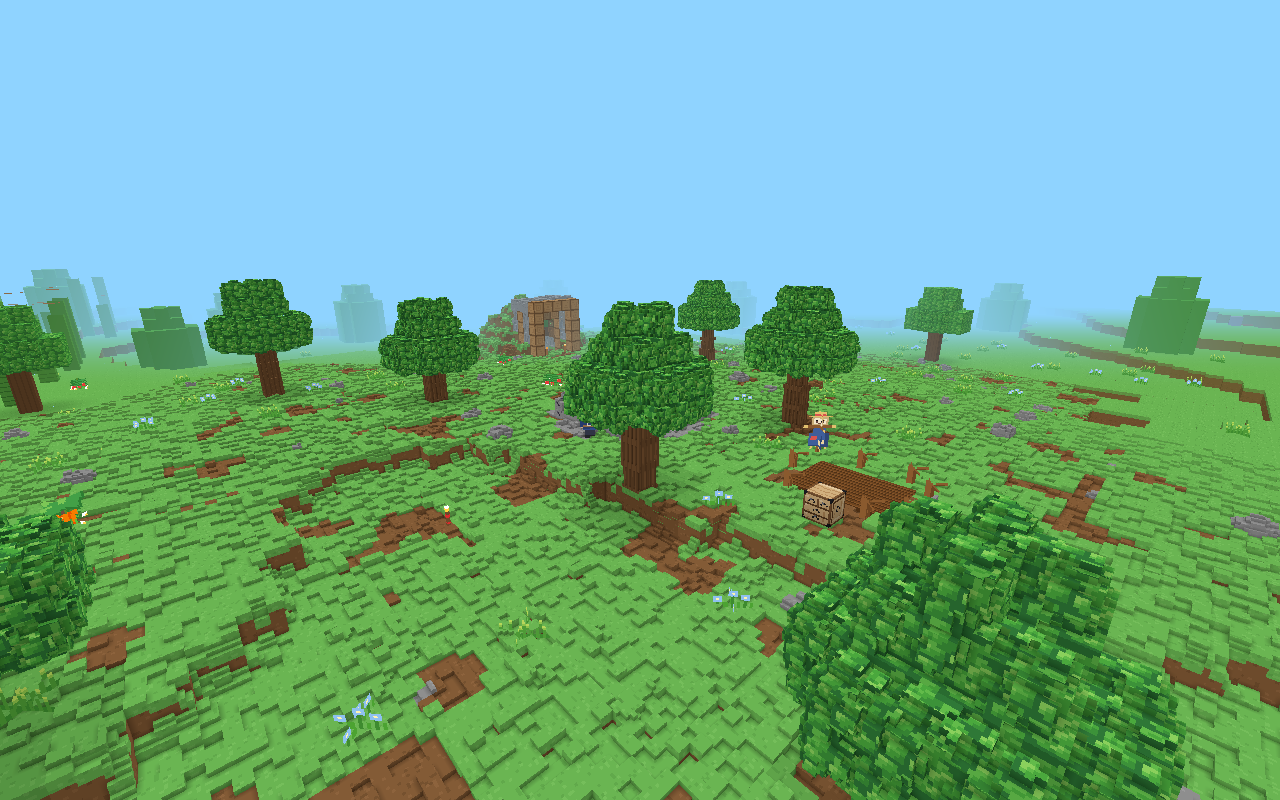
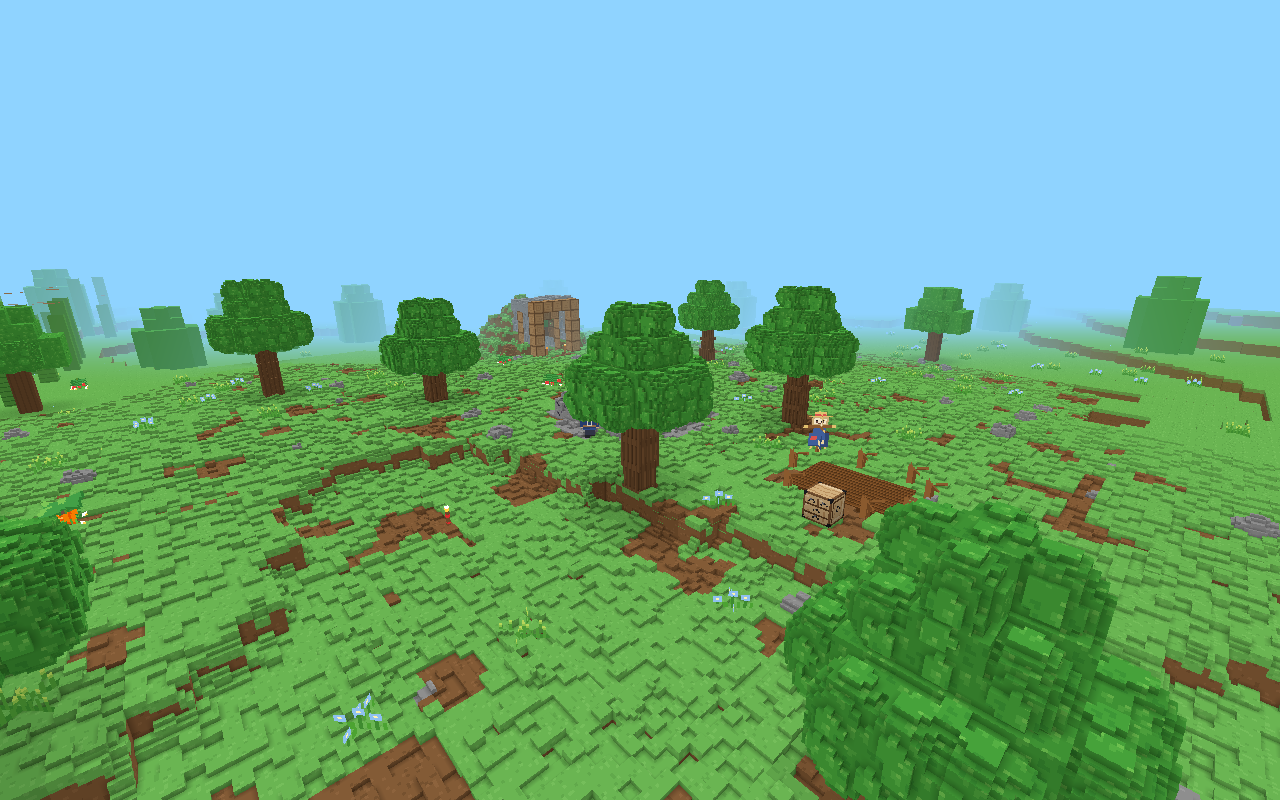
はっぱ「もこもこ」2 回目: 細かい ぶつぶつを やめ、大きな こぶと おだやかな 絵に
オーナー「気持ち悪い 見た目」→ 小さな こぶ・こい すき間の 色を やめた。
へり・かどを 大きく まるめ、面に 大きな こぶを 1〜2 こ。絵は 地の 色に 光と かげの 葉を まばらに。

Claude-Session: https://claude.ai/code/session_013nE4R1yYa5Tzza9z6QScoi

diff --git a/src/world/render/looks/leafPuff.ts b/src/world/render/looks/leafPuff.ts
@@ -3,84 +3,91 @@ import { LOOK_N } from './types';
 
 /**
  * はっぱの「もこもこ」の 形（?leaf=moko の 試し）。
- * 空気に 出ている 面だけを 2 マス 引っこめて、その上に まるい こぶ（球）を のせる。
+ * 空気に 出ている 面を 少し 引っこめ、面が 出会う へり・かどを 大きく まるめた 上に、大きな まるい こぶを 1〜2 こ のせる。
  * となりが はっぱ・幹の 面は いっぱいまで つめる（木の 中に 面を 残さない。つぎ目に すきまを 作らない）。
- * 1 マスだけの 穴は 作らない（遠くで ちらつく）。
+ * 細かい でこぼこ・穴は 作らない（ぶつぶつに 見えて 気持ち悪い。オーナー 2026-11-10）。こぶは ブロックの 半分くらいの 大きさ。
  */
 const N = LOOK_N;
 
 /** 形の 数（単位は 小ブロック。1 ブロック = 9） */
 export const LEAF_PUFF = {
   /** 空気に 出た 面を 引っこめる 深さ */
-  inset: 2,
-  /** 1 つの 面に のせる こぶの 数（少ない・多い） */
-  perFace: [2, 3],
+  inset: 1.5,
+  /** へり・かどの まるみの 半径 */
+  corner: 4,
   /** こぶの 半径（小さい・大きい） */
-  radius: [2.6, 3.5],
+  radius: [3.6, 4.6],
+  /** まつ: こぶ・まるみの 上下を この 割合に つぶす（平たい 段） */
+  padSquash: 0.6,
 } as const;
 
 export type LeafPuffStyle = 'round' | 'pad';
 
+/** 1 軸の「しん」から はみ出た 長さ（まるみの 半径で 割った 数）。空気に 出ていない 側は 0 */
+function over(p: number, openLo: number, openHi: number, r: number): number {
+  const c = p + 0.5;
+  const d = LEAF_PUFF.inset;
+  if (openLo && c < d + r) return (d + r - c) / r;
+  if (openHi && c > N - d - r) return (c - (N - d - r)) / r;
+  return 0;
+}
+
 /** open = 空気に 出ている 面（上 1, 下 2, +x 4, -x 8, +z 16, -z 32）。色番号 color を out に 書く */
 export function fillLeafPuff(h: number, open: number, out: Uint8Array, color: number, style: LeafPuffStyle): void {
-  const d = LEAF_PUFF.inset;
-  const lo = [open & 8 ? d : 0, open & 2 ? d : 0, open & 32 ? d : 0];
-  const hi = [open & 4 ? N - 1 - d : N - 1, open & 1 ? N - 1 - d : N - 1, open & 16 ? N - 1 - d : N - 1];
+  const r = LEAF_PUFF.corner;
+  const sq = style === 'pad' ? LEAF_PUFF.padSquash : 1;
   let i = 0;
   for (let y = 0; y < N; y++) {
+    const qy = over(y, open & 2, open & 1, r * sq);
     for (let z = 0; z < N; z++) {
+      const qz = over(z, open & 32, open & 16, r);
       for (let x = 0; x < N; x++, i++) {
-        out[i] = x >= lo[0]! && x <= hi[0]! && y >= lo[1]! && y <= hi[1]! && z >= lo[2]! && z <= hi[2]! ? color : 0;
+        const qx = over(x, open & 8, open & 4, r);
+        out[i] = qx * qx + qy * qy + qz * qz <= 1 ? color : 0;
       }
     }
   }
   if (open === 0) return;
-  // 面ごとに こぶを のせる。こぶは 面に ちょうど さわる 高さ（ブロックの 外へは 出ない）
+  // 面ごとに 大きな こぶ。こぶは 面に ちょうど さわる（ブロックの 外へは 出ない）
   for (let f = 0; f < 6; f++) {
     if (!(open & (1 << f))) continue;
     const axis = f < 2 ? 1 : f < 4 ? 0 : 2;
     const plus = f % 2 === 0;
-    const r0 = mix(h, 100 + f);
-    const n = LEAF_PUFF.perFace[0] + (r0 % (LEAF_PUFF.perFace[1] - LEAF_PUFF.perFace[0] + 1));
+    const n = 1 + (mix(h, 100 + f) % 2);
     for (let k = 0; k < n; k++) {
       const r1 = mix(h, 200 + f * 8 + k);
       const rad = LEAF_PUFF.radius[0] + ((r1 & 255) / 255) * (LEAF_PUFF.radius[1] - LEAF_PUFF.radius[0]);
+      const squash = axis === 1 ? 1 : sq;
       const c = [0, 0, 0];
       c[axis] = plus ? N - rad : rad;
-      // 面の 中の 位置: k ごとに 面の 半分ずつへ ちらす（かたまらない）
       const ua = (axis + 1) % 3;
       const va = (axis + 2) % 3;
-      const half = k % 2 === 0 ? 0 : 1;
-      c[ua] = spot(((r1 >>> 8) & 255) / 255, half, open, ua, rad);
-      c[va] = spot(((r1 >>> 16) & 255) / 255, (half + (k >> 1)) % 2, open, va, rad);
-      stamp(out, c[0]!, c[1]!, c[2]!, rad, style === 'pad' && axis !== 1 ? 0.62 : 1, color);
+      // 2 こ のせる ときは 面の 半分ずつへ（かさならない）
+      const half = n === 1 ? -1 : k;
+      c[ua] = spot(((r1 >>> 8) & 255) / 255, half, open, ua, rad * (ua === 1 ? squash : 1));
+      c[va] = spot(((r1 >>> 16) & 255) / 255, half < 0 ? -1 : 1 - half, open, va, rad * (va === 1 ? squash : 1));
+      stamp(out, c[0]!, c[1]!, c[2]!, rad, squash, color);
     }
   }
 }
 
-/** 面の 中の 1 軸の 位置。その 軸の はしが 空気なら 球が はみ出ない 所まで、はっぱに つながる はしなら はしまで */
+/** 面の 中の 1 軸の 位置。その 軸の はしが 空気なら こぶが はみ出ない 所まで、はっぱに つながる はしなら はしまで。half: -1 全体, 0 手前半分, 1 奥半分 */
 function spot(t: number, half: number, open: number, axis: number, rad: number): number {
   const minusBit = axis === 0 ? 8 : axis === 1 ? 2 : 32;
   const plusBit = axis === 0 ? 4 : axis === 1 ? 1 : 16;
-  const a = open & minusBit ? rad : 0.5;
-  const b = open & plusBit ? N - rad : N - 0.5;
+  const a = open & minusBit ? Math.min(rad, N / 2) : 1;
+  const b = open & plusBit ? Math.max(N - rad, N / 2) : N - 1;
   const mid = (a + b) / 2;
+  if (half < 0) return a + (b - a) * t;
   return half === 0 ? a + (mid - a) * t : mid + (b - mid) * t;
 }
 
 function stamp(out: Uint8Array, cx: number, cy: number, cz: number, rad: number, squashY: number, color: number): void {
-  const ry = rad * squashY;
-  const y0 = Math.max(0, Math.floor(cy - ry));
-  const y1 = Math.min(N - 1, Math.ceil(cy + ry));
-  const z0 = Math.max(0, Math.floor(cz - rad));
-  const z1 = Math.min(N - 1, Math.ceil(cz + rad));
-  const x0 = Math.max(0, Math.floor(cx - rad));
-  const x1 = Math.min(N - 1, Math.ceil(cx + rad));
-  for (let y = y0; y <= y1; y++) {
+  for (let y = 0; y < N; y++) {
     const dy = (y + 0.5 - cy) / squashY;
-    for (let z = z0; z <= z1; z++) {
+    for (let z = 0; z < N; z++) {
       const dz = z + 0.5 - cz;
-      for (let x = x0; x <= x1; x++) {
+      for (let x = 0; x < N; x++) {
         const dx = x + 0.5 - cx;
         if (dx * dx + dy * dy + dz * dz <= rad * rad) out[(y * N + z) * N + x] = color;
       }

diff --git a/src/world/render/leafBambooArt.ts b/src/world/render/leafBambooArt.ts
@@ -200,72 +200,72 @@ const BAMBOO_INK: Record<string, Rgba> = {
 };
 
 /**
- * もこもこ（?leaf=moko）の 絵。小さな 葉の かたまりを、左上からの 光で 5 色に ぬる（1 すき間の かげ → 5 光の あたる 先）。
- * 穴は あけない（形は 小ブロックの こぶで 作る）。上下左右に つながる。
+ * もこもこ（?leaf=moko）の 絵。地の 色（3）に、光の 葉（4・先だけ 5）と かげの 葉（2）を まばらに 置く。
+ * 色の 差は 小さく（細かい ぶつぶつは 気持ち悪い。オーナー 2026-11-10）。穴は あけない。上下左右に つながる。
  */
 const MOKO_LEAF = [
-  '4411143321111111',
-  '4431443441111114',
-  '3321434332244434',
-  '3221323322244333',
-  '1111544222143321',
-  '1115454431554344',
-  '3114343321543343',
-  '5431333221433235',
-  '3332111111132554',
-  '3321554311111543',
-  '2111443314443433',
-  '1114433244334132',
-  '3314322213444354',
-  '3213222111443543',
-  '2211144431133233',
-  '1111144331111111',
+  '3333333344333433',
+  '3333333343333332',
+  '2345333333332332',
+  '3344335334532233',
+  '3334344334433333',
+  '3333343333432333',
+  '3333333333332233',
+  '3333333333333333',
+  '5333333354433334',
+  '4333333334334534',
+  '4332233333334433',
+  '3333233453333433',
+  '3223333443233333',
+  '3323233343223333',
+  '3333223333333333',
+  '3333333335335443',
 ];
 
-/** もみじ。とがった 葉が かさなる */
+/** もみじ。小さな 十字の 葉 */
 const MOKO_MOMIJI = [
-  '2441333244114333',
-  '4433432443311332',
-  '4333434433211134',
-  '3331332332111141',
-  '1351121121113433',
-  '2544114111133222',
-  '5443344311332222',
-  '4433443331122242',
-  '3332433314412432',
-  '2225443344434322',
-  '2211433244542222',
-  '2111132145443222',
-  '1111111354433224',
-  '4111153322332144',
-  '3311543222321444',
-  '3215433321111443',
+  '3322335333322233',
+  '3332344433333333',
+  '4333334333333354',
+  '3333333333333334',
+  '3333533335332233',
+  '2334443344433233',
+  '2233433334333332',
+  '3333335333333333',
+  '2333344433354433',
+  '2233334333334332',
+  '3333333322333333',
+  '3333333332322333',
+  '3544333333332333',
+  '3343333353333335',
+  '4333333444333344',
+  '3333333343332334',
 ];
 
-/** まつ。ななめの 細い 針 */
+/** まつ。ななめの 短い 針 */
 const MOKO_MATSU = [
-  '3411241231221234',
-  '3113412212211234',
-  '2553122511113421',
-  '3425124411133211',
-  '3144413434331213',
-  '2331423123221112',
-  '1244321224114111',
-  '4342111233133113',
-  '2321111331221122',
-  '2211511455514221',
-  '1514413444123121',
-  '4433123331125111',
-  '3125522211244113',
-  '1124144114131115',
-  '5331341114231114',
-  '1252311134134134',
+  '3332332333333233',
+  '3323333353332335',
+  '3333533433333343',
+  '3334334333333433',
+  '3343333333233333',
+  '3333333532335332',
+  '3333334333343323',
+  '3333343333433333',
+  '5335333333333233',
+  '3343333533332334',
+  '3433334335333343',
+  '3332343343333333',
+  '3323333433335335',
+  '3333323333343343',
+  '3323233333433433',
+  '3233333233333333',
 ];
 
 const tones = (a: string, b: string, c: string, d: string, e: string): Record<string, Rgba> => ({ '1': hex(a), '2': hex(b), '3': hex(c), '4': hex(d), '5': hex(e) });
-const MOKO_GREEN = tones('#2F7837', '#3C9239', '#4AA83D', '#62BB4A', '#8AD05C');
-const MOKO_RED = tones('#B8481F', '#CC5C28', '#DD7733', '#EB963C', '#F6BC52');
-const MOKO_PINE = tones('#235737', '#2B663D', '#347643', '#448C4D', '#63A85D');
+const MOKO_GREEN = tones('#368A33', '#3D9636', '#46A23A', '#55B043', '#6DC04F');
+const MOKO_RED = tones('#C2552A', '#CC6230', '#D97436', '#E68A3C', '#F0A548');
+const MOKO_PINE = tones('#27603A', '#2C6A3E', '#327443', '#3F874B', '#55A058');
 
 const MOKO_ART = {
   leaves: [MOKO_LEAF, MOKO_GREEN],

diff --git a/src/world/render/looks/leafPuff.test.ts b/src/world/render/looks/leafPuff.test.ts
@@ -12,30 +12,28 @@ describe('はっぱの もこもこの 形', () => {
     expect(o.every((v) => v === 7)).toBe(true);
   });
 
-  it('はっぱ・幹に つながる 面の 層は ぜんぶ つまる（まん中。つぎ目に すきまを 作らない）', () => {
+  it('はっぱ・幹に つながる 側の 層は つまった まま（つぎ目に すきまを 作らない）。空気の 面が 出会う へりは あく', () => {
     for (const style of ['round', 'pad'] as const) {
       for (let h = 0; h < 40; h++) {
         const o = new Uint8Array(LOOK_VOLUME);
-        // 上だけ 空気。下・横は つながる
-        fillLeafPuff(h * 7919, 1, o, 3, style);
-        for (let z = 0; z < N; z++) for (let x = 0; x < N; x++) expect(at(o, x, 0, z)).toBe(3);
-        for (let y = 0; y <= N - 3; y++) for (let z = 0; z < N; z++) expect(at(o, 0, y, z) && at(o, N - 1, y, z)).toBe(3);
+        fillLeafPuff(h * 7919, 1 | 4, o, 3, style); // 上と +x が 空気
+        expect(at(o, N - 1, N - 1, 4), 'へり').toBe(0);
+        for (let y = 0; y < N - 3; y++) for (let z = 0; z < N; z++) expect(at(o, 0, y, z), '-x は つながる').toBe(3);
+        for (let x = 0; x < N - 3; x++) for (let z = 0; z < N; z++) expect(at(o, x, 0, z), '下は つながる').toBe(3);
       }
     }
   });
 
-  it('空気に 出た 面は まるく へこむ（すみは あく）が、こぶが 面まで とどく', () => {
-    let reach = 0;
+  it('ぜんぶ 空気でも まん中は つまり、すみは あく。こぶは 面まで とどく', () => {
     for (let h = 0; h < 40; h++) {
       const o = new Uint8Array(LOOK_VOLUME);
       fillLeafPuff(h * 104729, 63, o, 3, 'round');
-      expect(at(o, 0, N - 1, 0), '上の すみ').toBe(0);
-      expect(at(o, 4, 4, 4), 'まん中').toBe(3);
+      expect(at(o, 0, N - 1, 0)).toBe(0);
+      expect(at(o, 4, 4, 4)).toBe(3);
       let top = 0;
       for (let z = 0; z < N; z++) for (let x = 0; x < N; x++) if (at(o, x, N - 1, z)) top++;
-      if (top > 0) reach++;
+      expect(top).toBeGreaterThan(0);
     }
-    expect(reach).toBeGreaterThan(30);
   });
 
   it('同じ 数からは 同じ 形', () => {
